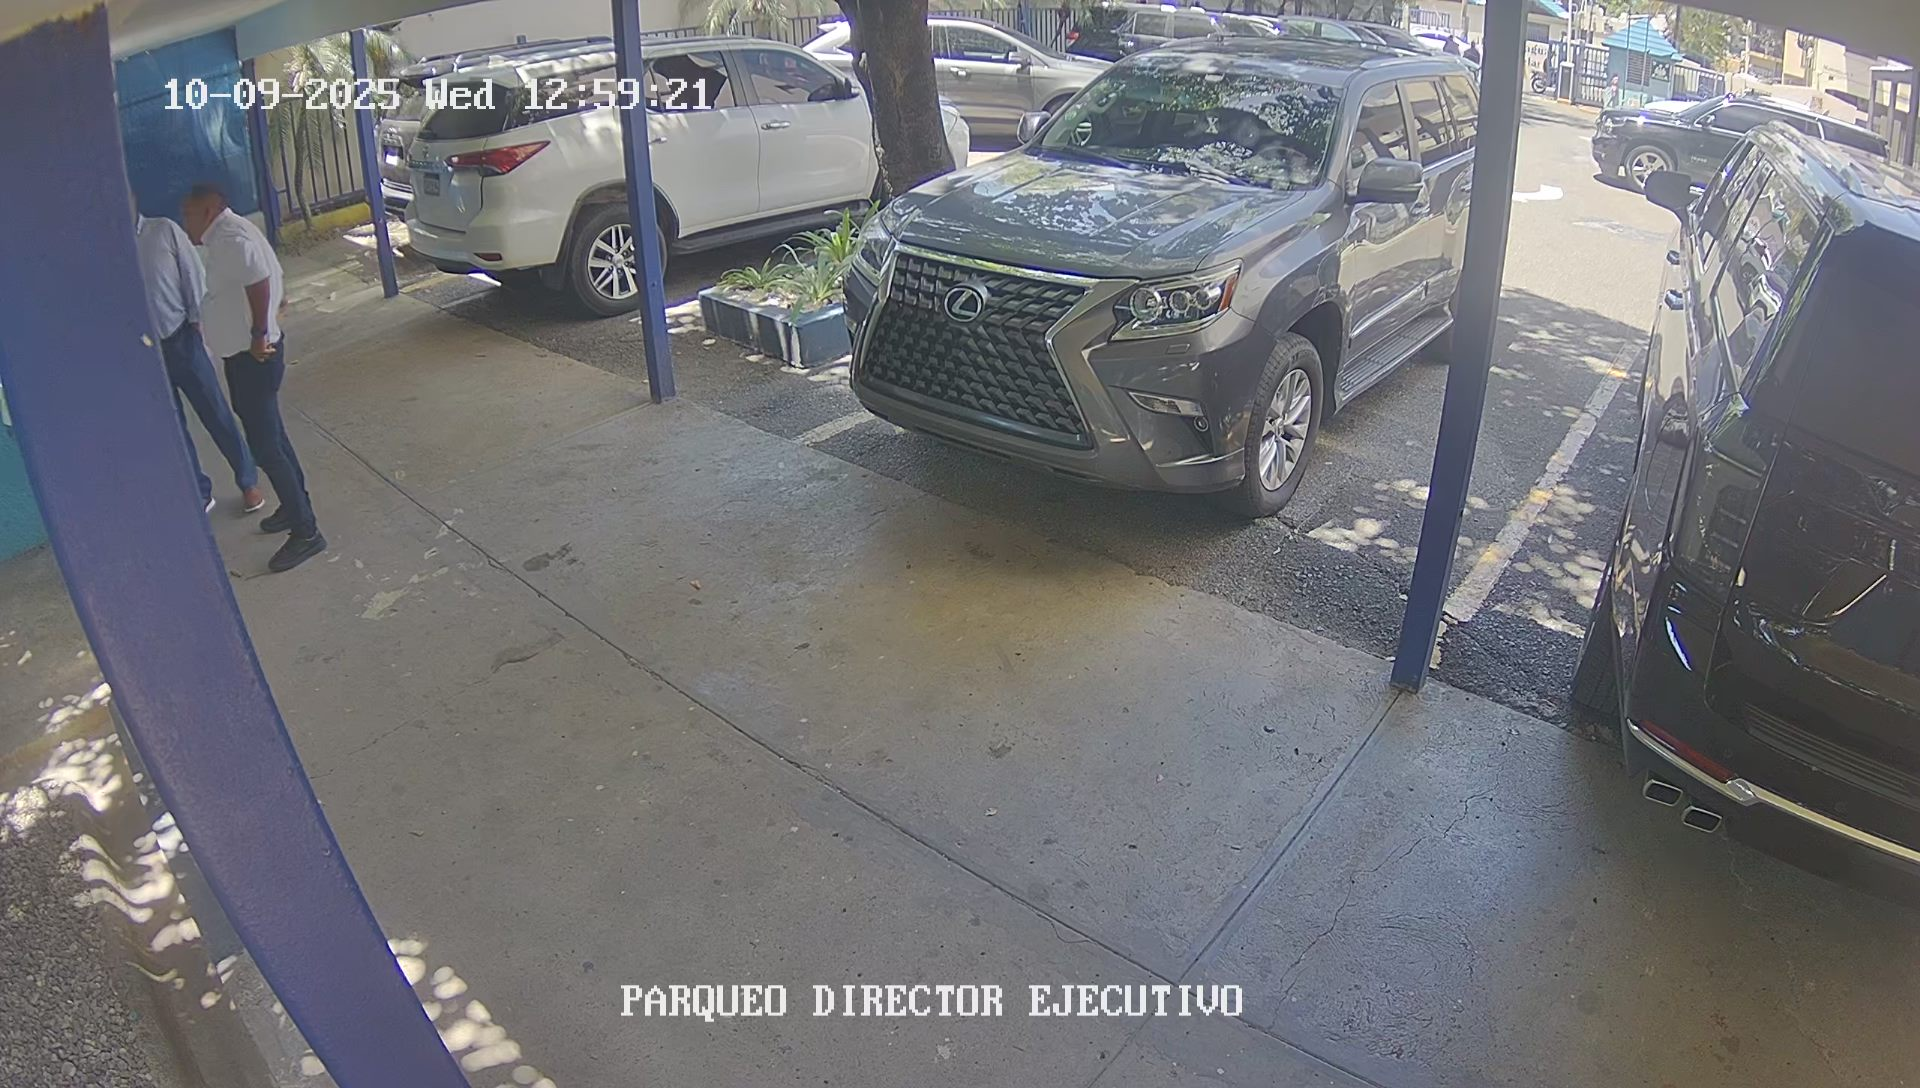
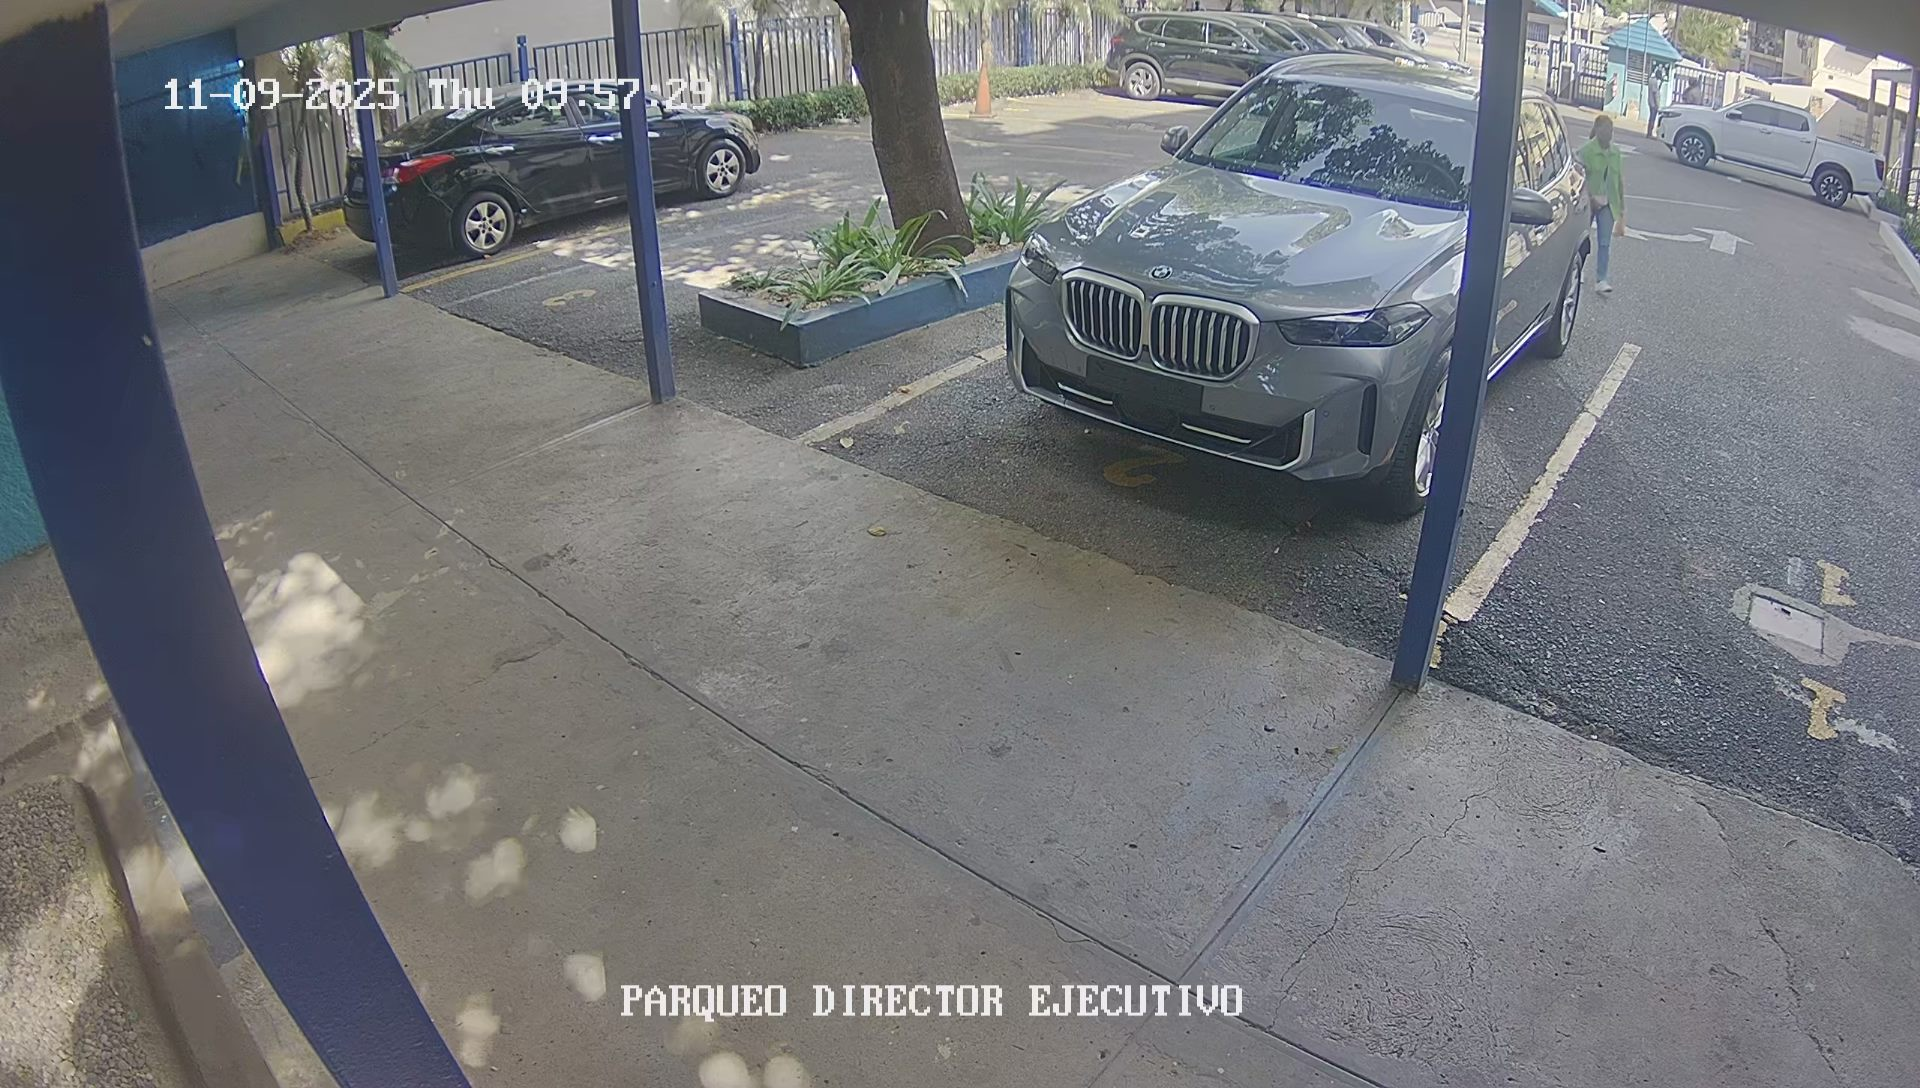
sorteo default por id de menor a mayor y btnStartAll sin espera

diff --git a/public/js/script.js b/public/js/script.js
@@ -216,6 +216,8 @@
 
     const filterData = async () => {
         dataObj.filtered = await dbRequest._getAll('cameras');
+
+        dataObj.filtered.sort((a, b) => Number(a.cameraIndexCode) - Number(b.cameraIndexCode));
         
         const words = ! configOptions.searchKeywords.trim().length ? [] : configOptions.searchKeywords.split(',').map(m => m.trim().toLowerCase());
 
@@ -1224,7 +1226,8 @@
 
             //Si hay promesas por cumplir y estas suman una fila del grid o es la última fila del grid, esperamos las promesas
             if (playersPromises.length && (! (i % configOptions.gridSize) || i == playerEntries.length - 1)) {
-                const result = await Promise.all(playersPromises);
+                //Vamos a comentar esta línea para comparar entre el inicio de todos los streams y el inicio de todos los streams con la nueva estrategia
+                //await Promise.all(playersPromises);
 
                 playersPromises = [];
             }
